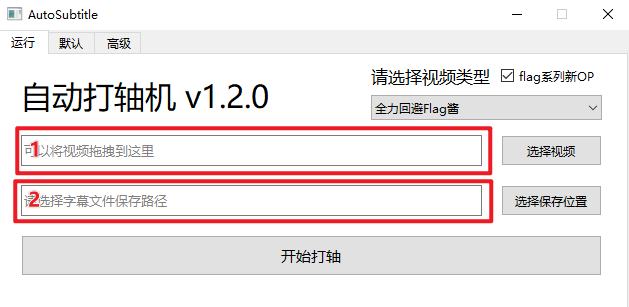
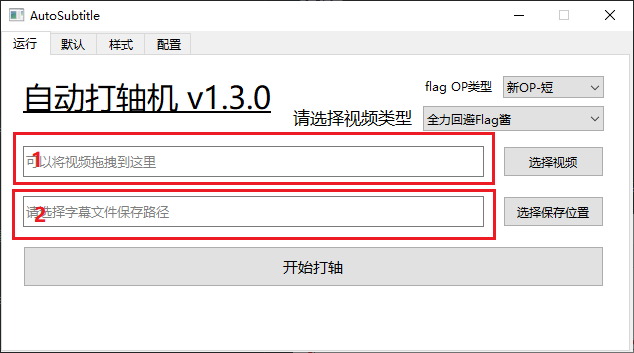
更新文档

diff --git a/README.md b/README.md
@@ -1,7 +1,7 @@
 # AutoSubtitle
 > 基于opencv，根据视频原字幕生成对帧的ass字幕文件，并识别出固定的说话人。
 > 
-> 目前仅对YouTube频道`全力回避フラグちゃん`和`混血のカレコレ`做针对性适配，不具备泛用性。
+> 目前对YouTube频道`全力回避フラグちゃん`、`混血のカレコレ`、`ハンドレッドノート`、`私立パラの丸高校`做针对性适配，泛用性较低。
 
 [![Release](https://img.shields.io/github/v/release/Echoosx/AutoSubtitle)](https://github.com/Echoosx/AutoSubtitle/releases/latest)
 [![Build](https://github.com/Echoosx/AutoSubtitle/workflows/Package%20Application%20with%20Pyinstaller/badge.svg?branch=master)](https://github.com/Echoosx/AutoSubtitle/tree/master/.github/workflows/pyInstaller.yml)
@@ -15,46 +15,54 @@
 
 ## 功能
 ### 一、 自动打轴
-1. 选择或拖拽要打轴的视频到位置【1】
-2. 选择要识别的视频类型（全力回避flag酱/混血万事屋） 
-3. 勾选是否使用新OP类型（仅全力回避flag酱适用） 
-4. 点击“开始打轴”按钮，程序开始运行
+1. 选择或拖拽要打轴的视频到位置【1】。
+2. 选择要识别的视频类型。
+3. 选择OP类型（仅全力回避flag酱适用） 。
+4. 点击“开始打轴”按钮，程序开始运行。
 
-注：生成的字幕文件默认保存在视频同目录下，名称默认与视频相同。可以在位置【2】进行更改
+注：生成的字幕文件默认保存在视频同目录下，名称默认与视频相同。可以在位置【2】进行更改。
 
 ![img_01.png](static/img_01.png)
 
 ### 二、 保存默认配置
-- 程序启动后的默认视频类型可以选择`全力回避flag酱`或`混血万事屋`
-- 生成的字幕文本可以选择`示范性字幕n`或`空白`
+- 程序启动后的默认视频类型可修改。
+- 生成的字幕文本可以选择`示范性字幕n`或`空白`。
 
-注：调试环境下选用`示范性字幕n`更方便观察字幕变化，生产环境下选用`空白`更方便后期填写翻译
+注：调试环境下选用`示范性字幕n`更方便观察字幕变化，生产环境下选用`空白`更方便后期填写翻译。
 
 ![img_02.png](static/img_02.png)
 
-### 三、 自定义样式库（非必要不修改）
-可以对两种视频类型生成字幕的默认样式库进行修改
+### 三、 自定义样式表（高级功能）
+可以对各视频类型生成字幕的默认样式表进行修改。
 
-选择ass格式的字幕文件，点击保存即可
+在右上角选择栏选定要修改的样式表，之后选择ass格式的字幕文件，点击保存即可。
+
+允许手动修改，但不推荐如此做。
 
 ![img_03.png](static/img_03.png)
 
-### 四、 自定义说话人与样式名的对照（非必要不修改）
-本功能为功能三的附属
+### 四、 自定义颜色识别（高级功能）
+本栏提供自定义颜色识别。
 
-如果在功能三中更改的样式库，样式名与默认样式库不同。可以在此编辑框中修改`说话人`与`样式名`的对照关系
-
-请遵循以下格式修改：
+1. 将要识别的字幕所在帧的完整图片在【2】处导入，图片分辨率必须是1920×1080，可以通过在Aegisub中右键视频区域 - “储存PNG截图（不带字幕）”获取。
+2. 弹出的窗口中，拖动6个滑动条，直到下方区域中只显示你需要的颜色，按任意键保存结果，结果会显示在【3】中。
+3. 将获得的结果在左侧【1】处按以下样例填写，之后保存：
 ```
-说话人 = 样式名
+[cyan] ;内部名称，不能重复
+style = 青蓝#正文#1 ;样式名称，和样式表一致
+filter_lower = 101,43,204 ;从上一步复制
+filter_upper = 117,149,255 ;从上一步复制
+diabled = 0 ;如果想关闭某一规则请把此项目设置为1，不需要就删掉这行
 ```
-
-注：`说话人`不能更改，`样式名`可以更改。修改不正确可能会导致打轴失败，请谨慎操作。
-点击`重置`可恢复默认对照表
+提示与注意事项：
+- 本规则针对特定颜色以及渐变色识别可能效果很差。
+- 不推荐添加过多不常用的颜色，可能会降低识别准确率。
+- 可以通过修改此规则来一定程度上兼容其他类型视频的样式。
 
 ![img_04.png](static/img_04.png)
 
+![img_05.png](static/img_05.png)
+
 ## TODO
 - [ ] 混血万事屋 新版OP适配
-- [ ] 混血万事屋 旧版样式适配
 - [ ] 运行自动安装字体
